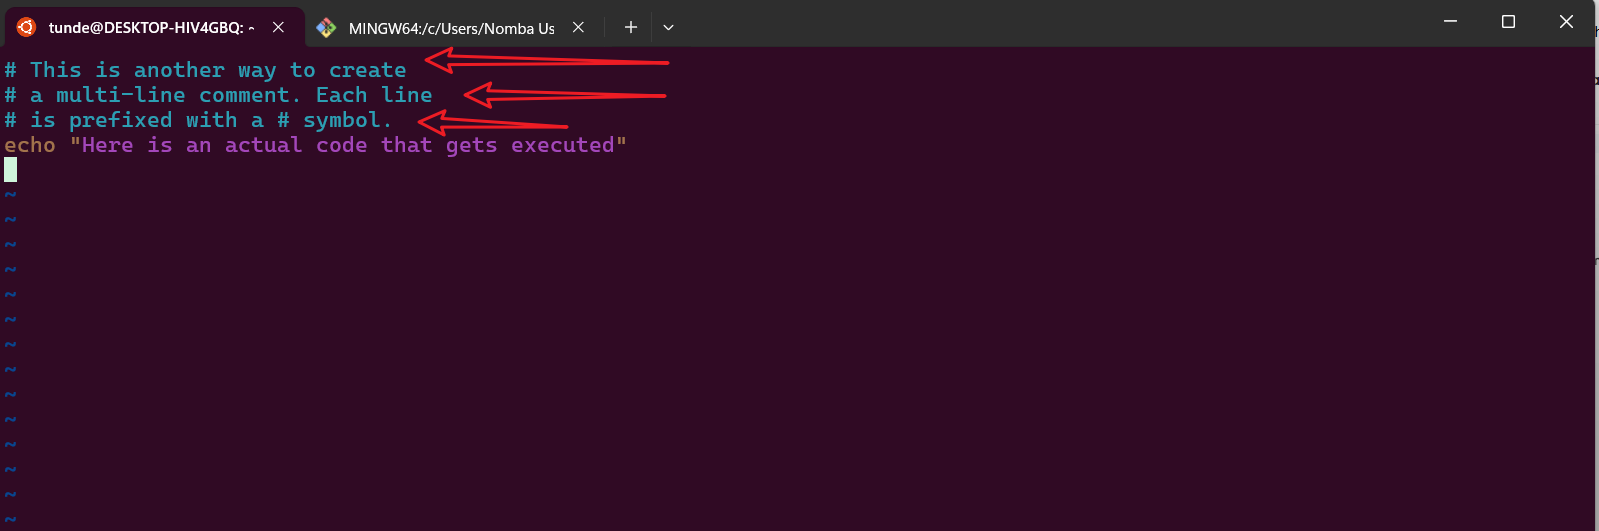
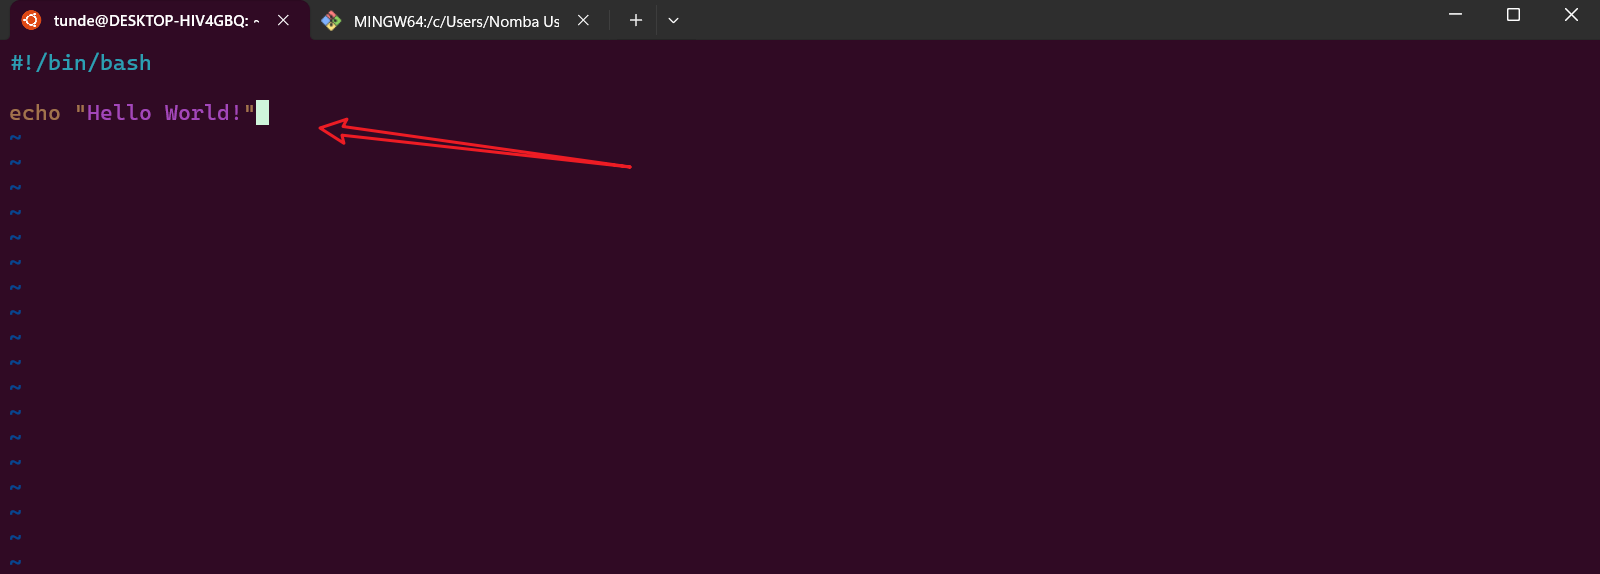
Doc: Made correction on previous submission

diff --git a/Shell_script-Comments_project/README.md b/Shell_script-Comments_project/README.md
@@ -1,134 +1,216 @@
 # Comments in Shell Scripting
-Comments are essential parts of shell scripting. They help us document or take note relating to the script one is writing. Just like in programming, comments can also be you to tell the shell not to read a particular part of the script by commenting out the targeted script. 
+
+Comments are essential parts of shell scripting. They help us document or take notes related to the script we are writing. Just like in programming, comments can also be used to instruct the shell to ignore specific parts of the script by commenting out the targeted lines. This is particularly useful for debugging or explaining the purpose of the code.
+
+## Why Use Comments in Shell Scripting?
+
+- **Documentation**: Comments make scripts easier to understand for others (or even yourself) when revisiting the code after some time.
+- **Debugging**: Temporarily disable parts of the script without deleting them.
+- **Collaboration**: Helps team members understand the logic and purpose of the script.
+- **Maintainability**: Makes it easier to update or modify the script in the future.
+
+---
 
 ## Types of Comments in Shell Scripting
-There are two types of comments in shell scripting: single-line comments and multi-line comments.
+
+There are two types of comments in shell scripting: **single-line comments** and **multi-line comments**.
 
 ### Single-line Comments
-Single-line comments are used to comment out a single line of code. They are denoted by a single '#' sign followed by the comment.
 
-- Example
+Single-line comments are used to comment out a single line of code. They are denoted by a single `#` sign followed by the comment.
+
+---
+
+### Task: Single-line Comments
+
+#### 1. Create a file with `vim` called `comment.sh`
+
+To create a file with `vim`, use the `vim` command followed by the name of the file.
+
+- **Command**:
 ```bash
-# This is a single-line comment in Bash
-echo "Hello, you are learning Bash Scripting on DAREY.IO!" # This is also a comment, following a command
+vim comment.sh
 ```
-![Single-line comment](./img/01.png)
+- **Screenshot**:
+![](./img/01.png)
 
-In the above example, the first line is a single-line comment, and the second line is also a single-line
+#### 2. Write a script that echoes "Hello World!"
 
-#### Use Cases for Single-line Comments
-1. **Function Documentation**
-   ```bash
-   # Calculates the sum of two numbers
-   sum() {
-       echo $(($1 + $2))
-   }
-   ```
+To write a script that echoes "Hello World!", we use the `echo` command.
 
-2. **Variable Description**
-   ```bash
-   # Maximum number of retry attempts for the backup process
-   MAX_RETRIES=3
-   ```
-
-3. **Command Explanation**
-   ```bash
-   # Kill process with PID 1234 if it exists
-   kill -9 1234 2>/dev/null || echo "Process not found"
-   ```
-
-### Multiple-single-line Comments
-Multiple single-line comments are used to comment out multiple lines of code. They are denoted by a '#' sign followed by the comment on each line.
-- Example
 ```bash
-# This is another way to create
-# a multi-line comment. Each line
-# is prefixed with a # symbol.
-echo "Here is an actual code that gets executed"
+#!/bin/bash
+# This is a single-line comment in this script
+echo "Hello World!"
 ```
-![Multiple-single-line](./img/02.png)
 
-#### Use Cases for Multiple-single-line Comments
-1. **Script Header Documentation**
+- **Screenshot 1**:
+![](./img/02.png)
+
+- **Screenshot 2**:
+![](./img/03.png)
+
+In Screenshot 1, the script is shown without comments. In Screenshot 2, a single-line comment is applied.
+
+#### 3. Save the script in `vim` by pressing the `esc` key, typing `:wq`, and pressing `Enter`.
+
+```bash
+:wq
+```
+- **Screenshot**:
+![](./img/04.png)
+
+#### 4. Confirm the presence of the `.sh` file and check its permissions using the `ls -latr` command.
+
+```bash
+ls -latr
+```
+- **Screenshot**:
+![](./img/05.png)
+
+From the screenshot above, the user only has read and write permissions.
+
+#### 5. Change user permissions to execute the file using the `chmod` command.
+
+```bash
+chmod u+x comment.sh
+```
+- **Screenshot**:
+![](./img/06.png)
+
+#### 6. Run the script using `./`.
+
+```bash
+./comment.sh
+```
+
+- **Screenshot**:
+![](./img/08.png)
+
+In the screenshot above, the script prints out "Hello World!" without the comments.
+
+---
+
+### Multi-line Comments
+
+Multi-line comments are used to comment on multiple lines of code. In shell scripting, there is no direct syntax for multi-line comments, but we can achieve this by using `#` at the beginning of each line.
+
+---
+
+### Task: Multi-line Comments
+
+#### 1. Create a file with `vim` called `comment2.sh`.
+
+```bash
+vim comment2.sh
+```
+- **Screenshot**:
+![](./img/09.png)
+
+#### 2. Write a script that creates two `.txt` files (`text1.txt` and `text2.txt`) while adding a multi-line comment.
+
+```bash
+#!/bin/bash
+# This is a multi-line comment
+# This script creates two text files called text1.txt and text2.txt
+# Creating text1.txt
+touch text1.txt
+# Creating text2.txt
+touch text2.txt
+```
+
+- **Screenshot**:
+![](./img/10.png)
+
+#### 3. Save the script in `vim` by pressing the `esc` key, typing `:wq`, and pressing `Enter`.
+
+```bash
+:wq
+```
+
+#### 4. Confirm the presence of the `.sh` file and check its permissions using the `ls -latr` command.
+
+```bash
+ls -latr
+```
+- **Screenshot**:
+![](./img/11.png)
+
+#### 5. Change user permissions to execute the file using the `chmod` command.
+
+```bash
+chmod u+x comment2.sh
+```
+- **Screenshot**:
+![](./img/12.png)
+
+#### 6. Run the script using `./`.
+
+```bash
+./comment2.sh
+```
+- **Screenshot**:
+![](./img/13.png)
+
+In the screenshot above, the script creates two text files: `text1.txt` and `text2.txt`.
+
+#### 7. Confirm the presence of the text files created and check their permissions using the `ls -latr` command.
+
+```bash
+ls -latr
+```
+- **Screenshot**:
+![](./img/13.png)
+
+---
+
+## Use Cases for Comments in Shell Scripting
+
+1. **Debugging**: Temporarily disable parts of the script to identify issues.
    ```bash
-   #!/bin/bash
-   # Script Name: backup_database.sh
-   # Description: Creates a backup of the MySQL database
-   # Author: John Doe
-   # Date: 2024-03-20
-   # Version: 1.0
+   # echo "This line is commented out for debugging"
+   ```
+2. **Documentation**: Explain complex logic or commands.
+   ```bash
+   # This loop iterates through all files in the directory
+   for file in *; do
+       echo $file
+   done
+   ```
+3. **Version Control**: Mark changes or updates in the script.
+   ```bash
+   # Updated on 2025-04-19: Added file permission check
+   ```
+4. **Configuration Files**: Provide instructions or default values.
+   ```bash
+   # Set the default directory
+   DEFAULT_DIR="/home/user"
    ```
 
-2. **Complex Function Documentation**
+---
+
+## Best Practices for Comments in Shell Scripting
+
+1. **Be Clear and Concise**: Write comments that are easy to understand.
    ```bash
-   # Function: process_logs
-   # Purpose: Analyzes log files for error patterns
-   # Parameters:
-   #   $1 - Log file path
-   #   $2 - Error threshold (optional)
-   # Returns: 0 on success, 1 on failure
-   process_logs() {
-       # Function implementation
-   }
+   # This script backs up the /home directory to /backup
    ```
-
-3. **Configuration Block Documentation**
+2. **Avoid Redundancy**: Do not state the obvious.
    ```bash
-   # Database Configuration
-   # ---------------------
-   # HOST: Database server hostname
-   # PORT: Database server port
-   # USER: Database username
-   # PASS: Database password
-   DB_HOST="localhost"
-   DB_PORT="3306"
-   DB_USER="admin"
-   DB_PASS="secret"
+   # Bad: This is a comment
+   echo "Hello World!" # Prints Hello World!
    ```
-
-## Best Practices for Using Comments
-
-1. **Be Clear and Concise**
-   - Write comments that explain the "why" rather than the "what"
-   - Keep comments up-to-date with code changes
-   - Use proper grammar and spelling
-
-2. **Comment Structure**
-   - Start scripts with a header comment block
-   - Document all functions with their purpose and parameters
-   - Use consistent comment formatting throughout the script
-
-3. **Avoid Common Pitfalls**
-   - Don't comment out code without explaining why
-   - Avoid redundant comments that just repeat the code
-   - Don't leave TODO comments without tracking them
-
-4. **Documentation Standards**
+3. **Use Comments for Complex Logic**: Explain why something is done, not just what is done.
    ```bash
-   #!/bin/bash
-   #
-   # Script: example.sh
-   # Purpose: Demonstrates proper comment usage
-   # Author: Your Name
-   # Date: YYYY-MM-DD
-   #
-   # Usage: ./example.sh [OPTIONS]
-   # Options:
-   #   -h    Display help message
-   #   -v    Enable verbose output
-   #
-   # Dependencies:
-   #   - awk
-   #   - sed
-   #
-   # Exit Codes:
-   #   0 - Success
-   #   1 - Invalid arguments
-   #   2 - Missing dependencies
+   # Check if the backup directory exists; if not, create it
+   if [ ! -d "/backup" ]; then
+       mkdir /backup
+   fi
    ```
+4. **Keep Comments Updated**: Ensure comments reflect the current state of the script.
+5. **Use Multi-line Comments Sparingly**: Use them only when necessary to explain complex logic or provide detailed documentation.
+6. **Standardize Commenting Style**: Use a consistent format for comments throughout the script.
 
-5. **Maintenance Tips**
-   - Review and update comments when modifying code
-   - Remove obsolete comments
-   - Use version control commit messages to track major changes
-   - Consider using a documentation generator for large projects
+---
+
+By following these guidelines, you can create well-documented, maintainable, and easy-to-understand shell scripts.
